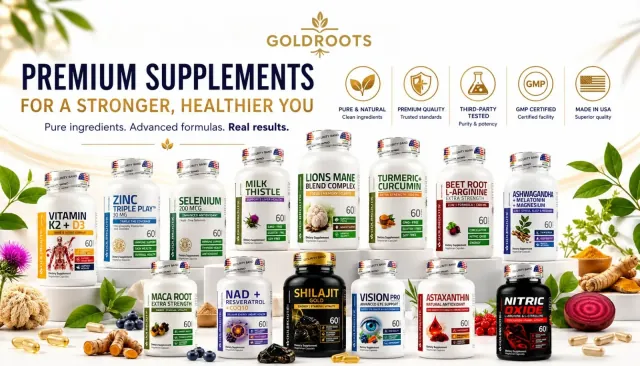
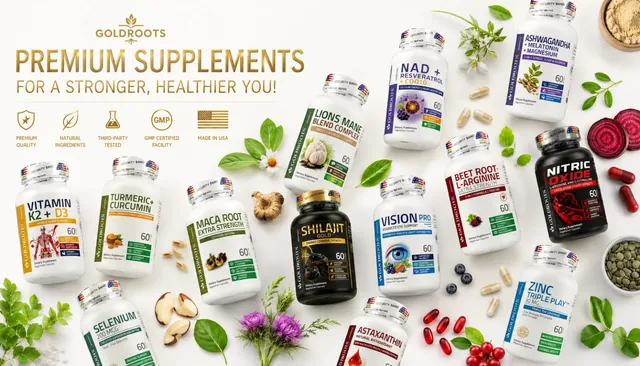
Portada con la composición dorada oficial, panel de Inicio sin pixelar y WhatsApp provisional
El hero usa el original de 1600x914 con sus tres tamaños. El panel de Inicio y La marca
usan la colección azul a su proporción real (sin recorte ni ampliación). Se quitan flatlay
y cover-alt. El WhatsApp es un número de ejemplo de EE. UU., no de la marca.

diff --git a/src/pages/About.tsx b/src/pages/About.tsx
@@ -14,7 +14,7 @@ const pillars = [
 ];
 
 export function About() {
-  usePageMeta({ title: 'La marca — Gold Roots Nutrition', description: 'Conoce el enfoque visual e informativo de Gold Roots Nutrition y la estructura de su línea de suplementos.', path: '/nosotros', image: 'brand/cover-alt.webp' });
+  usePageMeta({ title: 'La marca — Gold Roots Nutrition', description: 'Conoce el enfoque visual e informativo de Gold Roots Nutrition y la estructura de su línea de suplementos.', path: '/nosotros', image: 'brand/hero-cover.webp' });
   const shilajit = findProduct('shilajit-gold')!;
   const zinc = findProduct('zinc-triple-play')!;
 
@@ -27,7 +27,7 @@ export function About() {
       <section className="wrap section">
         <div className="grid items-center gap-12 lg:grid-cols-[0.72fr_1.28fr] lg:gap-20">
           <Reveal><div><p className="eyebrow text-accent-deep">El punto de partida</p><h2 className="mt-4 text-[clamp(2rem,3.4vw,3.1rem)] leading-[1.02]">Una colección que se entiende como un sistema.</h2><p className="mt-6 text-[1.05rem] leading-[1.8] text-muted">Gold Roots reúne {PRODUCTS.length} fórmulas en seis territorios de bienestar. El sitio pone esa estructura en primer plano para que cada visitante pueda recorrerla por objetivo, ingrediente o producto.</p></div></Reveal>
-          <Reveal delay={80}><div className="relative"><LeafMark className="absolute -top-6 -left-2 size-10 opacity-90" /><div className="overflow-hidden rounded-[2rem] bg-sand"><img src={asset('brand/cover-alt.webp')} alt="La línea Gold Roots con sus ingredientes, en la composición oficial de la marca" width="1400" height="800" loading="lazy" decoding="async" className="block h-auto w-full" /></div></div></Reveal>
+          <Reveal delay={80}><div className="relative"><LeafMark className="absolute -top-6 -left-2 size-10 opacity-90" /><div className="overflow-hidden rounded-[2rem] bg-sand"><img src={asset('brand/lineup-premium.webp')} srcSet={`${asset('brand/lineup-premium-900.webp')} 900w, ${asset('brand/lineup-premium.webp')} 1600w`} sizes="(max-width: 1024px) 92vw, 46vw" alt="La línea Gold Roots con sus ingredientes, en la composición oficial de la marca" width="1600" height="914" loading="lazy" decoding="async" className="block h-auto w-full" /></div></div></Reveal>
         </div>
       </section>
 

diff --git a/src/lib/site.ts b/src/lib/site.ts
@@ -4,13 +4,13 @@ export const site = {
   tagline: 'Nutrición esencial para tu bienestar diario',
   /**
    * Número de WhatsApp de contacto, con código de país y solo dígitos.
-   * [por confirmar] Hoy usa el de Herbavida (+51 940 176 917), que es el que estaba configurado en el proyecto:
-   * no se inventa ninguno. Se cambia aquí o con VITE_WHATSAPP al compilar y el botón flotante, el pie, el
+   * [PROVISIONAL] Número de ejemplo de EE. UU. (+1 202 555 0143, del rango ficticio 555-01xx) para ver el diseño completo;
+   * no es de la marca. El oficial se pone aquí o con VITE_WHATSAPP al compilar y el botón flotante, el pie, el
    * héroe, el destacado y Contacto lo siguen al instante.
    */
-  whatsapp: (import.meta.env.VITE_WHATSAPP as string | undefined)?.replace(/\D/g, '') || '51940176917',
-  /** Marca el número de arriba como oficial de Gold Roots. Mientras esté en false, el dato sigue en revisión. */
-  whatsappConfirmed: false,
+  whatsapp: (import.meta.env.VITE_WHATSAPP as string | undefined)?.replace(/\D/g, '') || '12025550143',
+  /** Mientras el número sea provisional, Contacto lo muestra para probar el diseño; con el oficial queda en true. */
+  whatsappConfirmed: true,
   /** [por confirmar] horario de atención */
   hours: null as string | null,
   /** [por confirmar] dirección fiscal y país de envío */
@@ -26,5 +26,6 @@ export const isConfirmed = (value: string | null) => Boolean(value);
 /** «51940176917» → «+51 940 176 917» */
 export function prettyPhone(digits: string): string {
   if (digits.startsWith('51') && digits.length === 11) return `+51 ${digits.slice(2, 5)} ${digits.slice(5, 8)} ${digits.slice(8)}`;
+  if (digits.startsWith('1') && digits.length === 11) return `+1 ${digits.slice(1, 4)} ${digits.slice(4, 7)} ${digits.slice(7)}`;
   return `+${digits}`;
 }

diff --git a/src/pages/Home.tsx b/src/pages/Home.tsx
@@ -97,8 +97,8 @@ function BrandMoment() {
           </Reveal>
         </div>
         {/* La foto respira sola al entrar y se corre apenas al pasar el puntero: nada de saltos de layout. */}
-        <m.div initial={{ opacity: 0, scale: 1.08 }} whileInView={{ opacity: 1, scale: 1 }} viewport={{ once: true, margin: '-15%' }} transition={{ duration: 1.2, ease: [0.22, 0.61, 0.36, 1] }} className="relative min-h-[24rem] overflow-hidden bg-[#f1eee7] lg:min-h-[38rem]">
-          <img src={asset('brand/flatlay.webp')} alt="Composición de la línea Gold Roots con sus ingredientes" width="1400" height="800" loading="lazy" decoding="async" className="absolute inset-0 size-full object-cover object-center transition-transform duration-700 hover:scale-[1.02]" />
+        <m.div initial={{ opacity: 0, scale: 1.08 }} whileInView={{ opacity: 1, scale: 1 }} viewport={{ once: true, margin: '-15%' }} transition={{ duration: 1.2, ease: [0.22, 0.61, 0.36, 1] }} className="relative aspect-[16/9] overflow-hidden bg-[#f1eee7] lg:aspect-auto lg:min-h-[30rem]">
+          <img src={asset('brand/lineup-premium.webp')} srcSet={`${asset('brand/lineup-premium-900.webp')} 900w, ${asset('brand/lineup-premium.webp')} 1600w`} sizes="(max-width: 1024px) 100vw, 56vw" width="1600" height="914" loading="lazy" decoding="async" alt="La colección Gold Roots completa, con sus frascos al frente y sus ingredientes alrededor" className="absolute inset-0 size-full object-cover object-left transition-transform duration-700 hover:scale-[1.02]" />
           {/* El degradado de la izquierda es lo que hace que la foto salga del panel blanco en vez de cortarse en seco. */}
           <div className="pointer-events-none absolute inset-y-0 left-0 w-20 bg-gradient-to-r from-surface via-surface/70 to-transparent lg:w-32" aria-hidden="true" />
         </m.div>

diff --git a/README.md b/README.md
@@ -28,7 +28,7 @@ npm run build      # dist/ + 404.html + sitemap.xml + robots.txt
 
 No se inventa nada. Mientras la marca no lo confirme, la pantalla lo muestra como pendiente:
 
-- **medio de contacto definitivo** (hoy `src/lib/site.ts` trae el número provisional de Herbavida con `whatsappConfirmed: false`; con ese valor, Contacto muestra «Canal oficial por confirmar» y oculta el formulario y el botón de chat. Para activarlo: confirmar el número —o pasar `VITE_WHATSAPP` al compilar— y poner `whatsappConfirmed: true`), horario, dirección y redes → `src/lib/site.ts`
+- **WhatsApp oficial** (hoy `src/lib/site.ts` trae un número provisional de ejemplo, +1 202 555 0143, para ver el diseño completo; **no es de la marca**. Para el oficial: ponerlo en `site.ts` o pasar `VITE_WHATSAPP` al compilar), horario, dirección y redes → `src/lib/site.ts`
 - textos legales definitivos y aviso FDA (el texto actual es el de la tienda original, pendiente de revisión)
 - certificaciones que aparecen en el arte de las fotos pero no están confirmadas (orgánico, third-party tested, GMP, Made in USA, vegano): no se publican y esas imágenes no se usan
 
